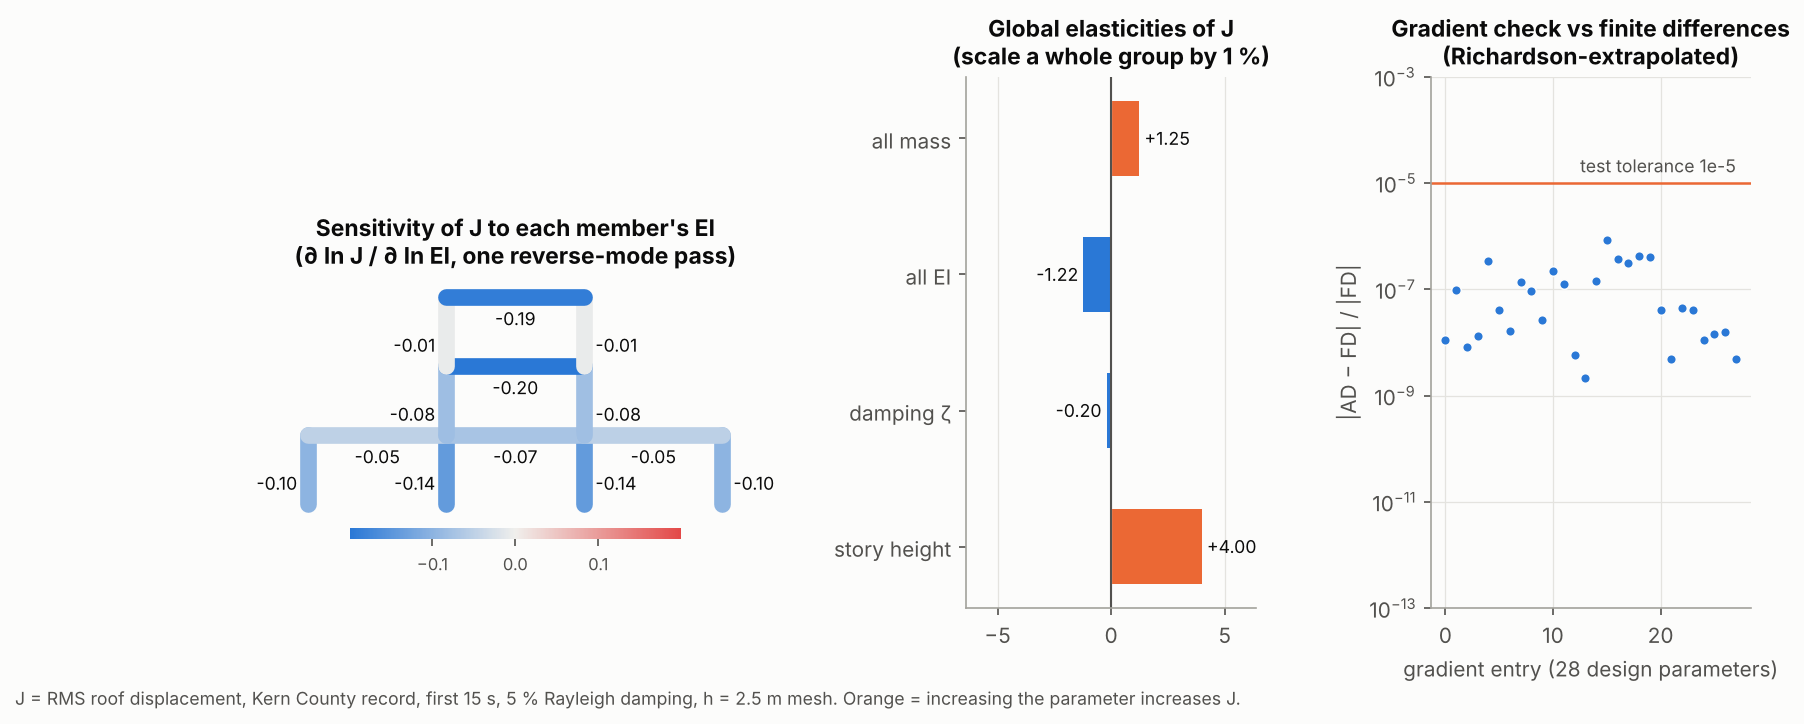
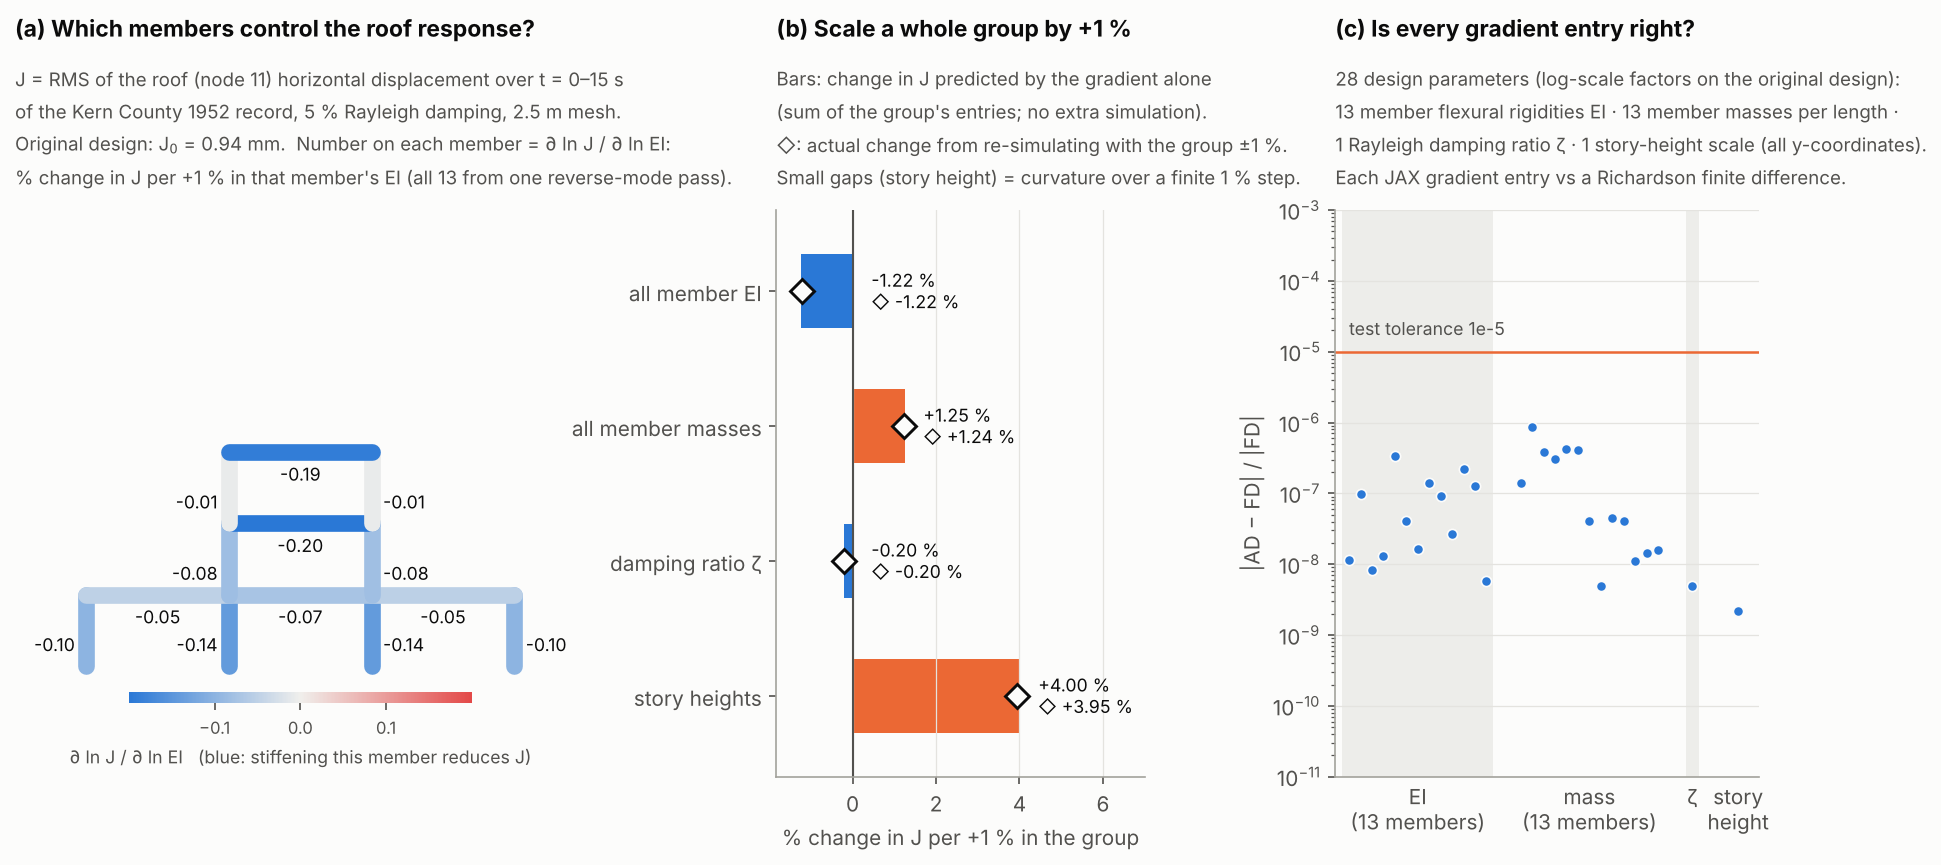
Make the sensitivity figure self-explanatory
- (a) define J next to the panel (RMS roof displacement, 0-15 s, J0) and
  what the per-member numbers mean
- (b) explain that bars are gradient predictions for scaling a whole group
  by 1 %, and add a re-simulation check (group scaled +-1 %) as markers
- (c) list the 28 design parameters by group; group the x-axis
- Document the group check in VERIFICATION.md; record the prompt in
  agentic-demo/

Claude-Session: https://claude.ai/code/session_01KQ5gVn6ghVPXxCm9xptq6D

diff --git a/scripts/make_figures.py b/scripts/make_figures.py
@@ -305,13 +305,39 @@ def sensitivity(quick):
 
     # FD check of every entry (Richardson)
     fd = {k: v / J0 for k, v in finite_difference_grad(f, p).items()}
-    ad_all = np.concatenate([np.ravel(g[k]) for k in sorted(g)])
-    fd_all = np.concatenate([np.ravel(fd[k]) for k in sorted(fd)])
+    # plotting order, grouped: EI per member, mass per member, damping, height
+    order = ["log_EI", "log_m", "log_zeta", "log_height"]
+    ad_all = np.concatenate([np.ravel(g[k]) for k in order])
+    fd_all = np.concatenate([np.ravel(fd[k]) for k in order])
     max_rel = float(np.abs(ad_all - fd_all).max() / np.abs(fd_all).max())
 
-    fig = plt.figure(figsize=(13, 4.6))
-    gs = fig.add_gridspec(1, 3, width_ratios=[1.9, 1.0, 1.1], wspace=0.45)
-    ax = fig.add_subplot(gs[0])
+    # Group sensitivities: predicted from the gradient vs. re-simulating with the whole group scaled by +-1 %
+    d = np.log(1.01)
+    groups = [  # (label, gradient prediction, parameter perturbation)
+        ("all member EI", g["log_EI"].sum(), lambda s: {**p, "log_EI": p["log_EI"] + s}),
+        ("all member masses", g["log_m"].sum(), lambda s: {**p, "log_m": p["log_m"] + s}),
+        ("damping ratio ζ", float(g["log_zeta"]), lambda s: {**p, "log_zeta": p["log_zeta"] + s}),
+        ("story heights", float(g["log_height"]), lambda s: {**p, "log_height": p["log_height"] + s}),
+    ]
+    sim = [(float(f(pert(d))) - float(f(pert(-d)))) / (2 * d) / J0 for _, _, pert in groups]
+
+    fig = plt.figure(figsize=(15, 6.6))
+    gs = fig.add_gridspec(2, 3, width_ratios=[1.55, 1.0, 1.15], height_ratios=[1.0, 3.2], wspace=0.42, hspace=0.05)
+    box = dict(fontsize=9, color=INK2, va="top", ha="left", linespacing=1.45)
+
+    def header(col, title, body):
+        h = fig.add_subplot(gs[0, col])
+        h.axis("off")
+        h.text(0, 1.0, title, fontsize=11, fontweight="bold", color=INK, va="top", ha="left")
+        h.text(0, 0.72, body, transform=h.transAxes, **box)
+
+    # (a) per-member EI sensitivity on the frame ---------------------------------------
+    header(0, "(a) Which members control the roof response?",
+           f"J = RMS of the roof (node 11) horizontal displacement over t = 0–{prob.duration:.0f} s\n"
+           f"of the Kern County 1952 record, 5 % Rayleigh damping, 2.5 m mesh.\n"
+           f"Original design: J$_0$ = {1000 * J0:.2f} mm.  Number on each member = ∂ ln J / ∂ ln EI:\n"
+           "% change in J per +1 % in that member's EI (all 13 from one reverse-mode pass).")
+    ax = fig.add_subplot(gs[1, 0])
     s = g["log_EI"]
     lim = np.abs(s).max()
     norm = TwoSlopeNorm(vmin=-lim, vcenter=0, vmax=lim)
@@ -326,46 +352,67 @@ def sensitivity(quick):
             ax.text(mx, my - 0.8, f"{s[e]:+.2f}", fontsize=8.5, color=INK, ha="center", va="top")
             continue
         my = min(y0, y1) + 0.3 * abs(y1 - y0)  # columns: label low, clear of the beam labels
-        if mx < 15:  # left-half column: label to the left
+        if mx < 15:
             ax.text(mx - 0.8, my, f"{s[e]:+.2f}", fontsize=8.5, color=INK, ha="right", va="center")
-        else:  # right-half column: label to the right
+        else:
             ax.text(mx + 0.8, my, f"{s[e]:+.2f}", fontsize=8.5, color=INK, ha="left", va="center")
     ax.set_aspect("equal")
     ax.set_xlim(-5, 35)
     ax.set_ylim(-1, 16.5)
     ax.axis("off")
-    ax.set_title("Sensitivity of J to each member's EI\n(∂ ln J / ∂ ln EI, one reverse-mode pass)")
     cb = fig.colorbar(lc, ax=ax, orientation="horizontal", shrink=0.6, pad=0.02, aspect=30)
     cb.outline.set_visible(False)
     cb.ax.tick_params(colors=INK2, labelsize=8)
+    cb.set_label("∂ ln J / ∂ ln EI   (blue: stiffening this member reduces J)", color=INK2, fontsize=8.5)
 
-    ax2 = fig.add_subplot(gs[1])
-    names = ["story height", "damping ζ", "all EI", "all mass"]
-    vals = [float(g["log_height"]), float(g["log_zeta"]), float(g["log_EI"].sum()), float(g["log_m"].sum())]
-    ax2.barh(names, vals, color=[BLUE if v < 0 else ORANGE for v in vals], height=0.55)
+    # (b) group sensitivities: gradient prediction vs re-simulation ----------------------
+    header(1, "(b) Scale a whole group by +1 %",
+           "Bars: change in J predicted by the gradient alone\n"
+           "(sum of the group's entries; no extra simulation).\n"
+           "◇: actual change from re-simulating with the group ±1 %.\n"
+           "Small gaps (story height) = curvature over a finite 1 % step.")
+    ax2 = fig.add_subplot(gs[1, 1])
+    names = [n for n, _, _ in groups]
+    vals = [float(v) for _, v, _ in groups]
+    y = np.arange(len(names))[::-1]
+    ax2.barh(y, vals, color=[BLUE if v < 0 else ORANGE for v in vals], height=0.55, label="gradient prediction")
+    ax2.plot(sim, y, "D", ms=8, color=SURFACE, mec=INK, mew=1.4, zorder=4, label="re-simulation (±1 %)")
     ax2.axvline(0, color=INK2, lw=1)
-    for i, v in enumerate(vals):
-        ax2.text(v, i, f" {v:+.2f} ", va="center", ha="left" if v >= 0 else "right", fontsize=8.5, color=INK)
-    ax2.set_title("Global elasticities of J\n(scale a whole group by 1 %)")
+    for yi, v, sv in zip(y, vals, sim):
+        ax2.text(max(v, sv, 0) + 0.45, yi, f"{v:+.2f} %\n◇ {sv:+.2f} %", va="center", ha="left", fontsize=8.5, color=INK)
+    ax2.set_yticks(y, names)
+    ax2.set_xlabel("% change in J per +1 % in the group")
     ax2.grid(axis="y", visible=False)
-    span = max(abs(min(vals)), abs(max(vals))) * 1.6
-    ax2.set_xlim(-span, span)
+    ax2.set_xlim(min(min(vals), 0) - 0.6, max(vals) + 3.0)
+    ax2.set_ylim(-0.6, len(names) - 0.4)
 
-    ax3 = fig.add_subplot(gs[2])
+    # (c) every entry vs finite differences ----------------------------------------------
+    header(2, "(c) Is every gradient entry right?",
+           "28 design parameters (log-scale factors on the original design):\n"
+           "13 member flexural rigidities EI · 13 member masses per length ·\n"
+           "1 Rayleigh damping ratio ζ · 1 story-height scale (all y-coordinates).\n"
+           "Each JAX gradient entry vs a Richardson finite difference.")
+    ax3 = fig.add_subplot(gs[1, 2])
     rel = np.abs(ad_all - fd_all) / np.maximum(np.abs(fd_all), 1e-300)
-    ax3.scatter(np.arange(len(rel)), rel, s=22, color=BLUE, edgecolor=SURFACE, linewidth=0.8, zorder=3)
+    # x positions with a gap between groups: EI 0-12, mass 15-27, zeta 30, height 34
+    xpos = np.concatenate([np.arange(13), 15 + np.arange(13), [30, 34]])
+    for lo, hi in [(-0.6, 12.6), (29.4, 30.6)]:
+        ax3.axvspan(lo, hi, color=GRID, alpha=0.6, lw=0)
+    ax3.scatter(xpos, rel, s=24, color=BLUE, edgecolor=SURFACE, linewidth=0.8, zorder=3)
     ax3.axhline(1e-5, color=ORANGE, lw=1.2)
-    ax3.text(len(rel) - 1, 1.6e-5, "test tolerance 1e-5", color=INK2, fontsize=8.5, ha="right")
+    ax3.text(0, 1.5e-5, "test tolerance 1e-5", color=INK2, fontsize=8.5, ha="left", va="bottom")
     ax3.set_yscale("log")
-    ax3.set_ylim(1e-13, 1e-3)
-    ax3.set_xlabel("gradient entry (28 design parameters)")
+    ax3.set_ylim(1e-11, 1e-3)
+    ax3.set_xlim(-1.2, 35.8)
+    ax3.set_xticks([6, 21, 30, 34], ["EI\n(13 members)", "mass\n(13 members)", "ζ", "story\nheight"])
+    ax3.tick_params(axis="x", length=0)
     ax3.set_ylabel("|AD − FD| / |FD|")
-    ax3.set_title("Gradient check vs finite differences\n(Richardson-extrapolated)")
-    fig.text(0.01, -0.03, f"J = RMS roof displacement, Kern County record, first {prob.duration:.0f} s, 5 % Rayleigh damping, h = 2.5 m mesh. "
-             "Orange = increasing the parameter increases J.", color=INK2, fontsize=8.5)
+    ax3.grid(axis="x", visible=False)
+
     fig.savefig(OUT / "sensitivity.png", dpi=150, bbox_inches="tight")
     plt.close(fig)
-    return dict(J0_rms_roof_m=J0, grad_vs_fd_max_rel=max_rel, dlnJ_dln={k: np.round(v, 4).tolist() for k, v in g.items()})
+    return dict(J0_rms_roof_m=J0, grad_vs_fd_max_rel=max_rel, dlnJ_dln={k: np.round(v, 4).tolist() for k, v in g.items()},
+                group_pct_per_pct={n: dict(gradient=round(float(v), 4), resimulated=round(sv, 4)) for (n, v, _), sv in zip(groups, sim)})
 
 
 if __name__ == "__main__":

diff --git a/agentic-demo/PROMPTS.md b/agentic-demo/PROMPTS.md
@@ -58,6 +58,22 @@ The user prompts are copied verbatim. The timeline entries are a summary of what
 - The plotted histories are written to `docs/figures/data/*.csv`, with the full setup in the header lines.
 - New, previously hidden fact: SAP2000's peak-magnitude ratio is 0.983, but at the instant SAP2000 peaks the error is 30 % (phase drift).
 
-## P03+: follow-ups
+## P03: Make the gradient figure self-explanatory
+
+**November 13, 2026 · Verbatim user message**
+
+> For gradient check figure,
+> i) left-hand side, define what J is next to the first sub-figure, not at subscript.
+> ii) middle, I have no idea what it verifies/outputs. Context needed.
+> iii) right hand side, what are the 28 design parameters, briefly mention what they are (in category groups)
+
+**What changed:**
+
+- Each panel now has an explanation block above it.
+- (a) defines J (RMS roof displacement, 0–15 s, J₀ = 0.94 mm) and what each member number means.
+- (b) was a bare bar chart of group elasticities. It now states that the bars are the gradient's *prediction* for scaling a whole group by 1 %, and adds a new check: ◇ markers from actually re-running the simulation with each group scaled ±1 %. They agree to within 0.02 percentage points except story height (4.00 vs 3.95), which the figure attributes to curvature over the finite step.
+- (c) lists the 28 parameters by group (13 EI, 13 masses, ζ, story height), and the x-axis is grouped and labelled accordingly.
+
+## P04+: follow-ups
 
 _Add the next prompts here verbatim, with a one-line note on what changed after each._

diff --git a/agentic-demo/README.md b/agentic-demo/README.md
@@ -122,6 +122,19 @@ The figure now shows both metrics (ε_max and ε_peak) with their times and an e
 
 **Lesson:** a domain expert reading one label carefully caught what 43 passing tests could not. Ask the agent to *define* every summary number, and ask for the raw data behind every plot so you can check it yourself.
 
+### G. Follow-up: "I have no idea what it verifies"
+
+**Prompt source:** verbatim (third message of the session)
+
+> For gradient check figure,
+> i) left-hand side, define what J is next to the first sub-figure, not at subscript.
+> ii) middle, I have no idea what it verifies/outputs. Context needed.
+> iii) right hand side, what are the 28 design parameters, briefly mention what they are (in category groups)
+
+**Observed result:** every panel now has an explanation block, as shown in §D. The middle panel had only *displayed* numbers. It now *verifies* them: each gradient prediction is paired with a re-simulation of the scaled design. That check also revealed a visible curvature effect for story height (4.00 % predicted vs 3.95 % simulated), which the figure explains.
+
+**Lesson:** the agent's figures were designed for someone who already knew the setup. "What does this verify?" is a good question to ask about every panel. A panel that only displays a result should either be cut or turned into a check.
+
 ## 4. Final result and researcher checks
 
 | | Who checked |

diff --git a/docs/VERIFICATION.md b/docs/VERIFICATION.md
@@ -95,6 +95,15 @@ chain), and a story-height scale (via nodal coordinates).
 | Bathe, Wilson-θ, SSP-RK3, all 28 parameters | ≤ 1e-5 rel | `test_other_integrators_gradients` |
 | Forward mode (`jacfwd`) = reverse mode (`jacrev`) for the full roof history | ≤ 1e-10 | `test_forward_and_reverse_mode_agree` |
 | Geometry gradient finite (legacy quirk 6) | pass | `test_gradient_wrt_horizontal_beam_coordinates_is_finite` |
+| Group sensitivities (all EI, all masses, ζ, story height): gradient prediction vs re-simulating with the group scaled ±1 % | −1.22/−1.22, +1.25/+1.24, −0.20/−0.20, +4.00/+3.95 % per % | `scripts/make_figures.py` (figure, not a test; the story-height gap is curvature over the finite 1 % step) |
+
+![sensitivity](figures/sensitivity.png)
+
+In the figure, J = RMS of the roof (node 11) horizontal displacement over the
+first 15 s of the Kern County record (5 % Rayleigh damping, 2.5 m mesh). The 28
+design parameters are log-scale factors on the original design: 13 member EI,
+13 member masses per length, the Rayleigh damping ratio ζ, and a story-height
+scale applied to all y-coordinates.
 
 Finite differences use central differences with **Richardson extrapolation**
 (ε = 1e-4, ε/2). A step study showed plain FD is round-off-limited for the
